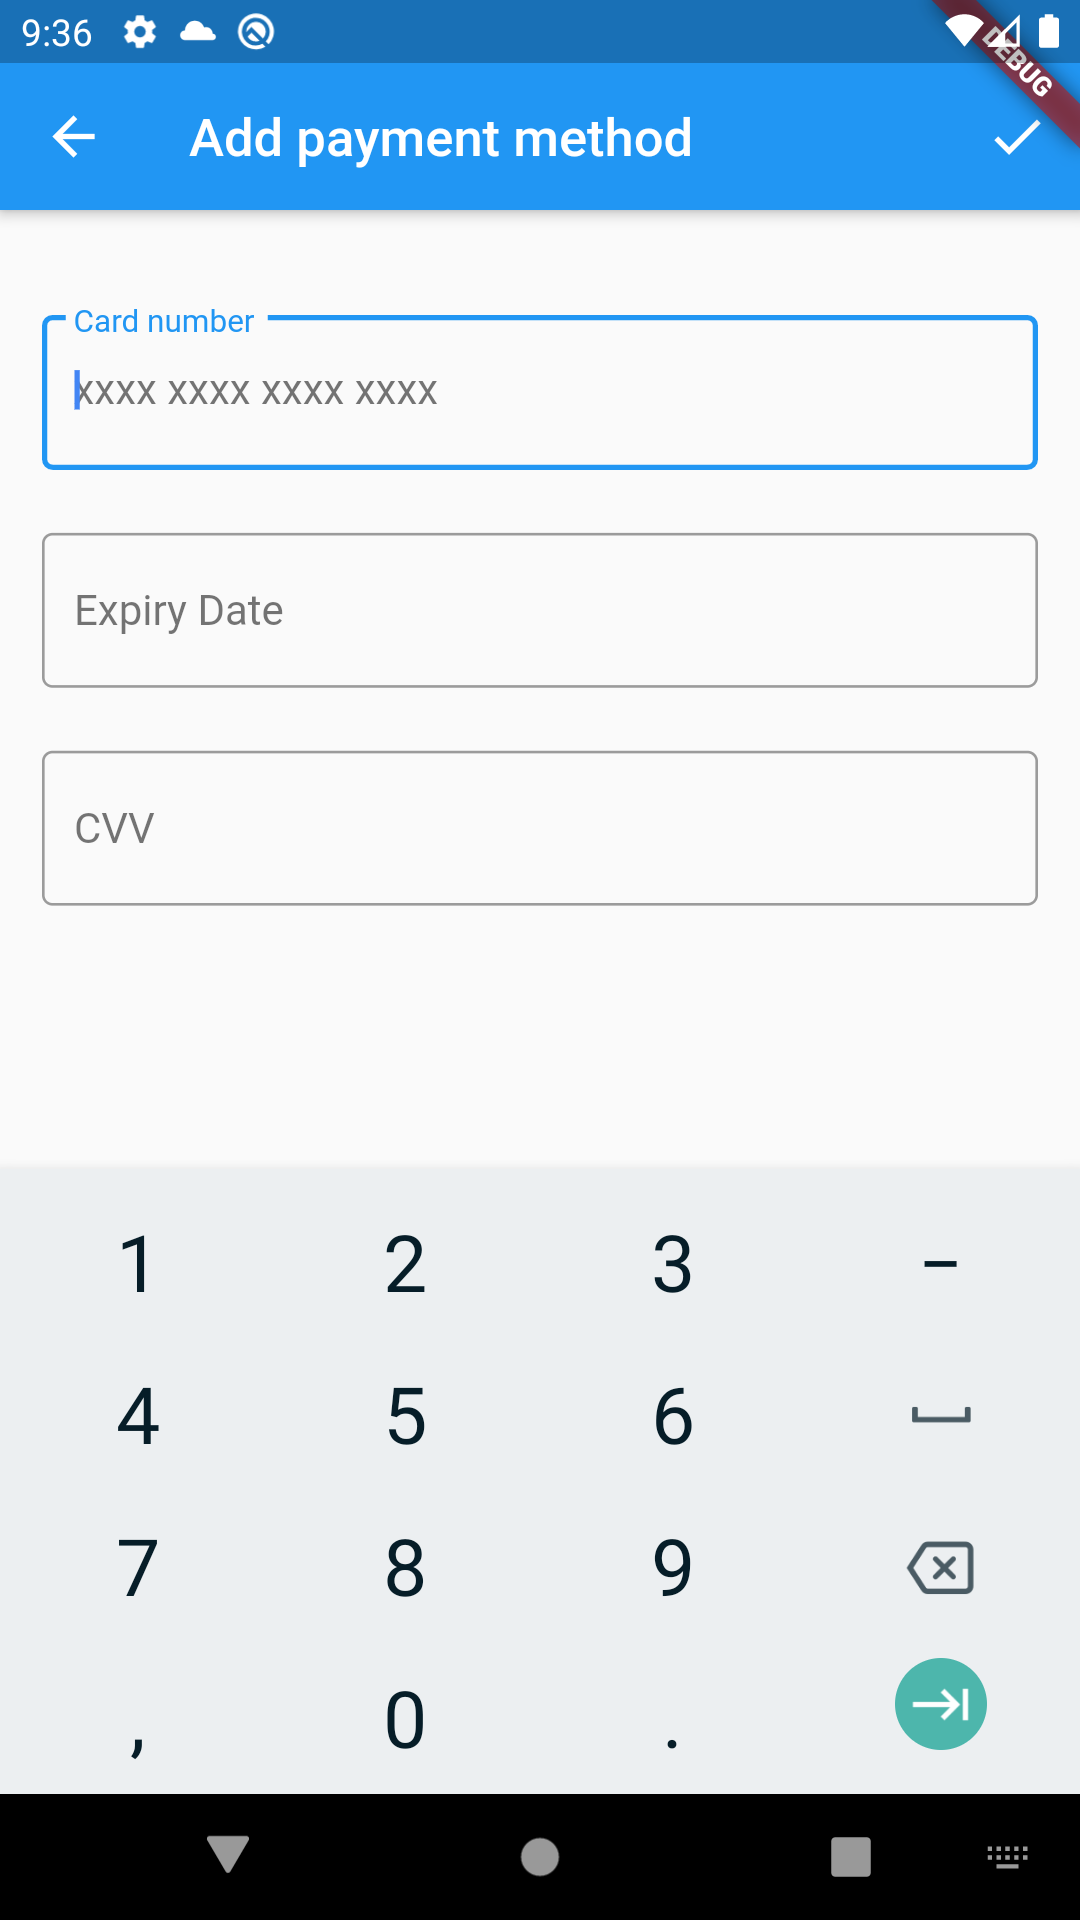
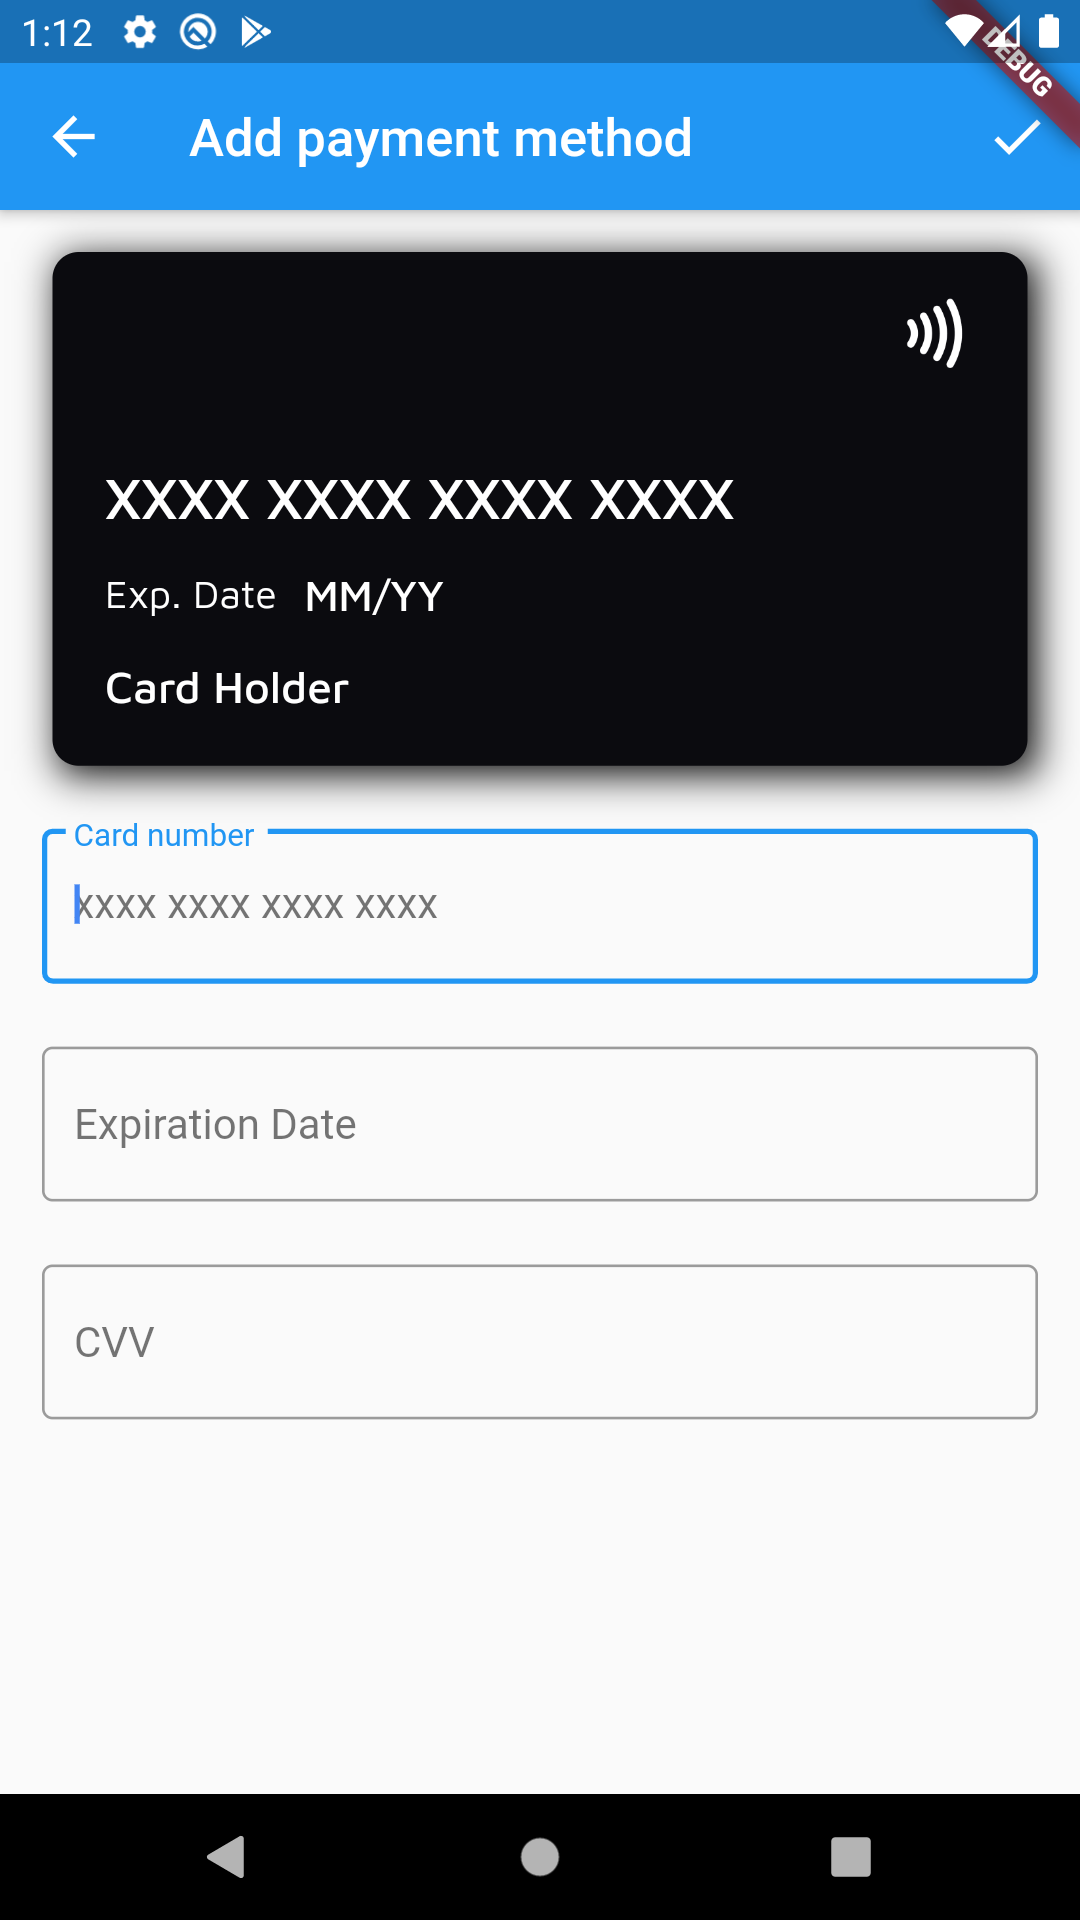
Prepare v.2.6.0

diff --git a/README.md b/README.md
@@ -1,14 +1,15 @@
-# Flutter Stripe SDK
+[![pub package](https://img.shields.io/pub/v/stripe_sdk.svg)](https://pub.dev/packages/stripe_sdk)
 
-<https://pub.dev/packages/stripe_sdk>
+# Flutter Stripe SDK
 
 A native dart package for Stripe. There are various other flutter plugins that wrap existing Stripe libraries,
 but this package uses a different approach.
 It does not wrap existing Stripe libraries, but instead accesses the Stripe API directly.
 
-See *examples* for additional short examples.
+See *example/main.dart* for additional short examples.
 
-See <https://github.com/ezet/stripe-sdk/tree/master/example/app> for a complete demo app.
+See <https://github.com/ezet/stripe-sdk/tree/master/example/app> for a complete demo application,
+with a working example backend.
 
 
 ## Features
@@ -41,7 +42,7 @@ See <https://github.com/ezet/stripe-sdk/tree/master/example/app> for a complete 
 
 There is a complete demo application available at <https://github.com/ezet/stripe-sdk/tree/master/example/app>.
 
-<img src="https://github.com/ezet/stripe-sdk/blob/master/doc/demo.png" width="300">
+<img src="https://raw.githubusercontent.com/ezet/stripe-sdk/master/doc/demo.png" width="300">
 
 
 ## Overview
@@ -133,7 +134,7 @@ onPressed: () async {
 
 ```
 
-<img src="https://github.com/ezet/stripe-sdk/blob/master/doc/cardform.png" width="300">
+<img src="https://raw.githubusercontent.com/ezet/stripe-sdk/master/doc/cardform.png" width="300">
 
 
 
@@ -218,7 +219,7 @@ Feel free to use these features but be aware that breaking changes might be intr
 
 ### Add Payment Method
 
-Use `AddPaymentMethod.withSetupIntent()` to launch a managed UI flow for adding a payment method.
+Use `AddPaymentMethod.withSetupIntent(...)` to launch a managed UI flow for adding a payment method.
 This will also handle SCA if required. 
 
 ## Additional examples

diff --git a/CHANGELOG.md b/CHANGELOG.md
@@ -2,7 +2,9 @@
 
 ## 2.6.0
 
-* Add visual indicators for card type in CardForm
+* Add visual card widget in CardForm
+
+* Fix misc bugs in CardForm
 
 ## 2.5.3
 
